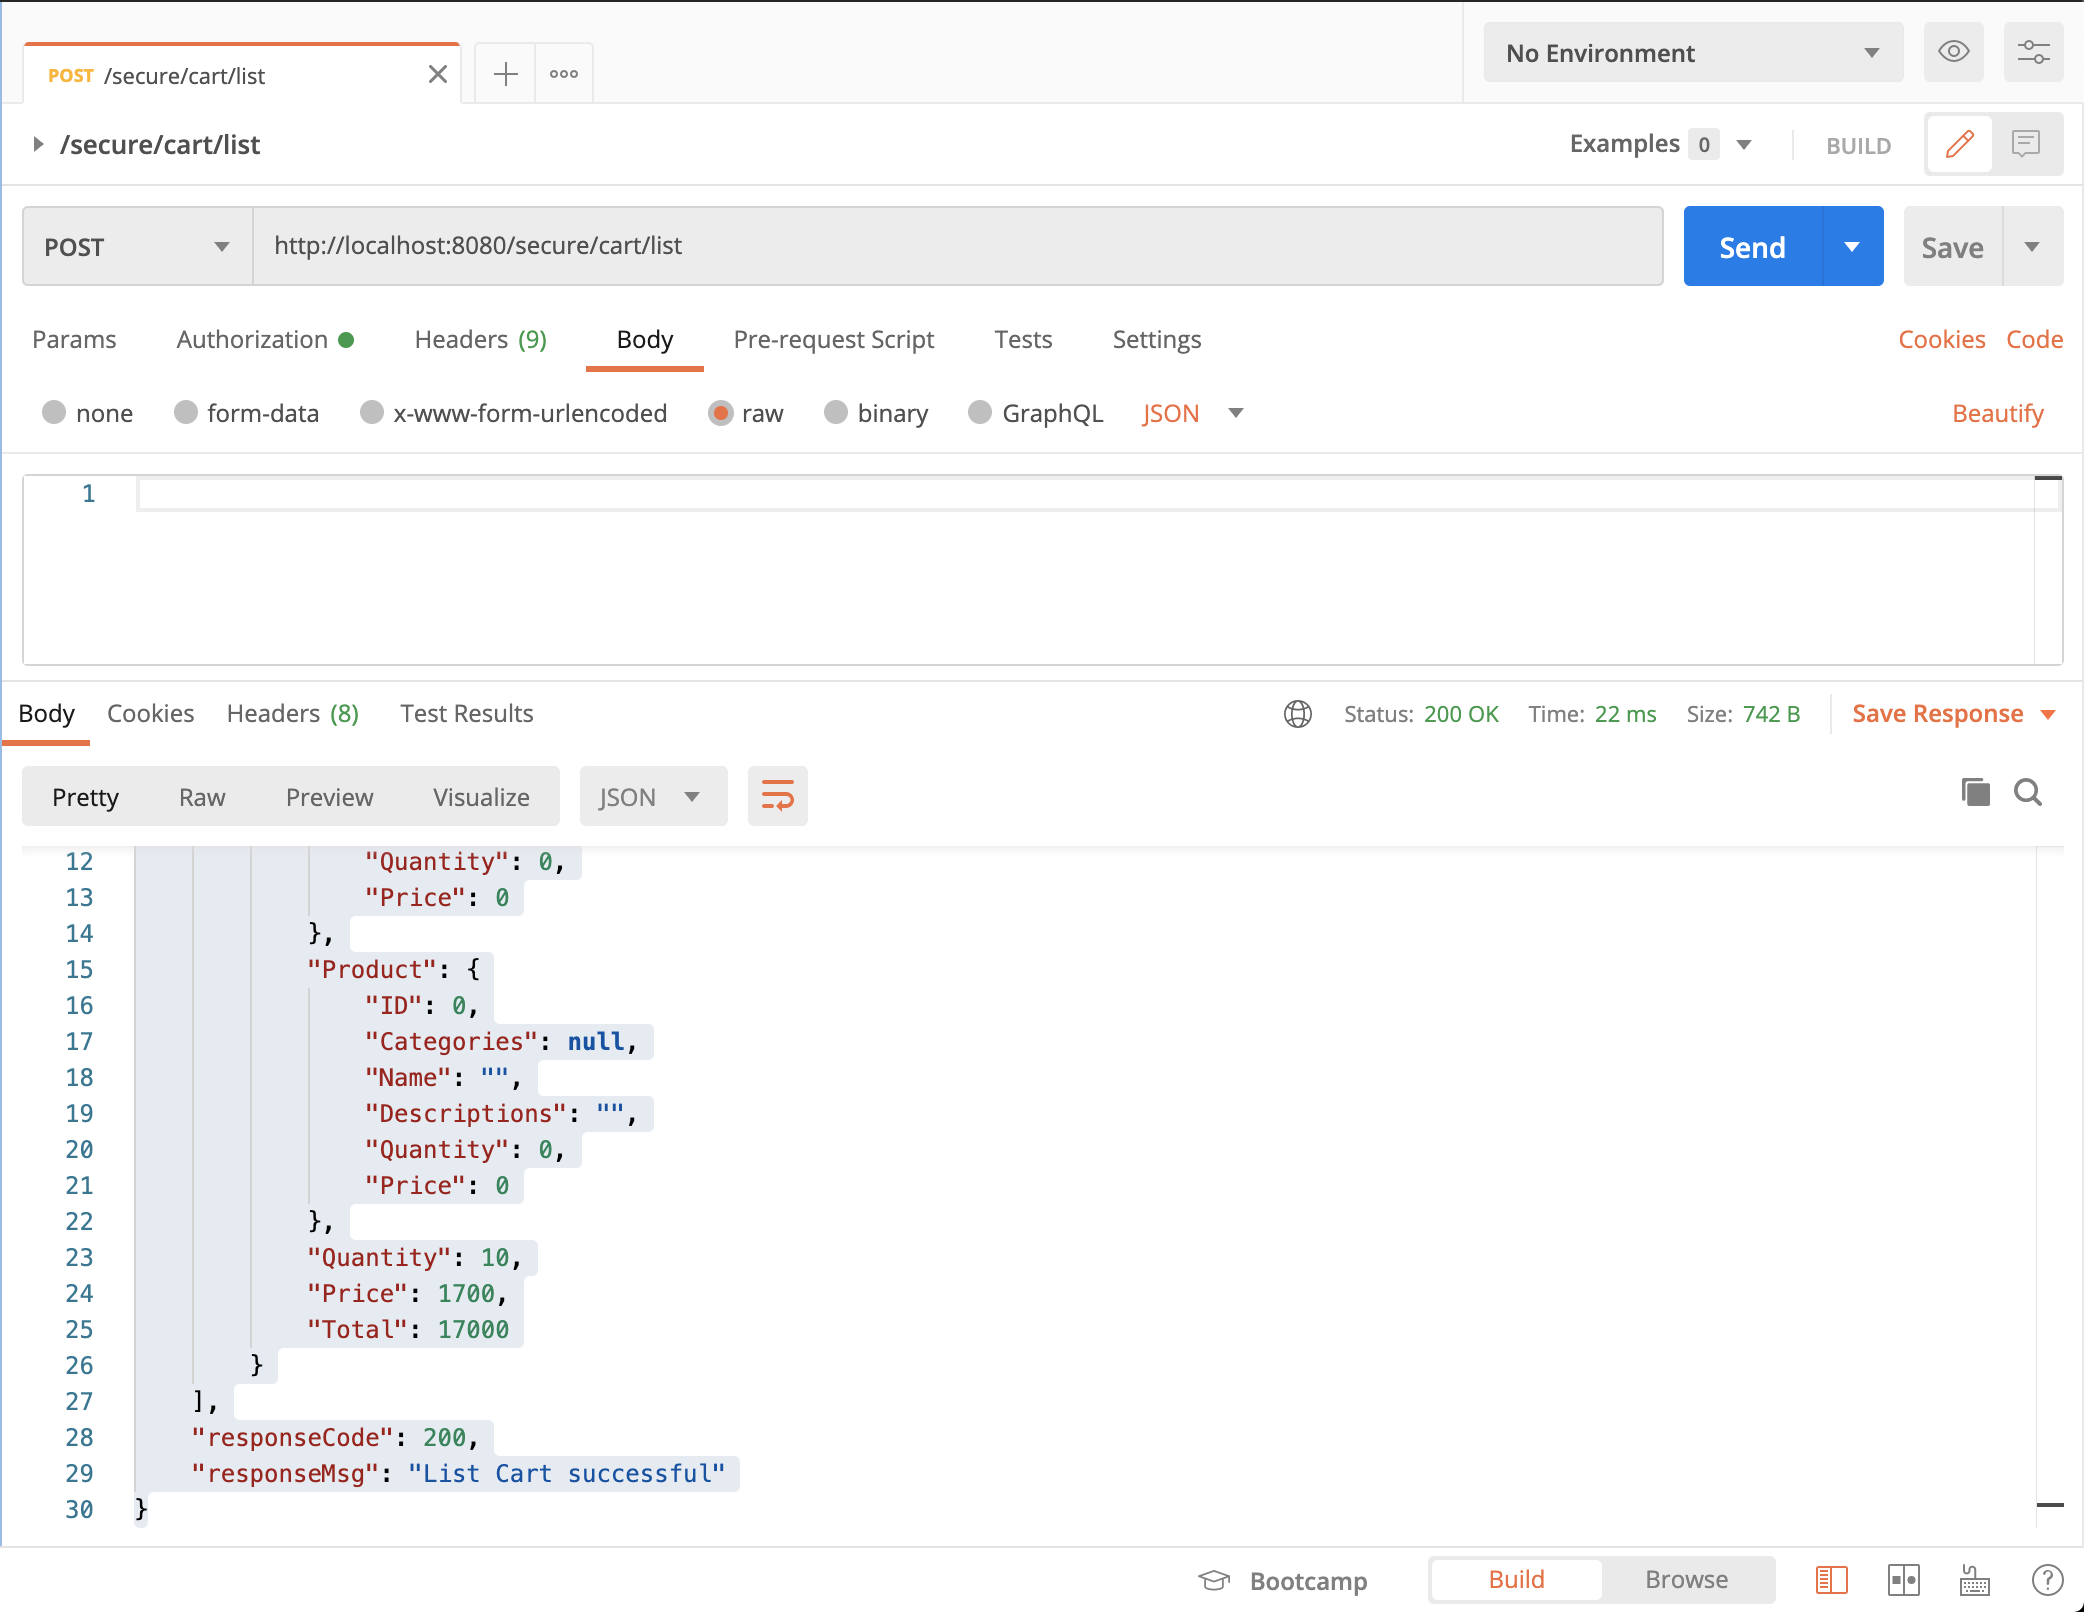
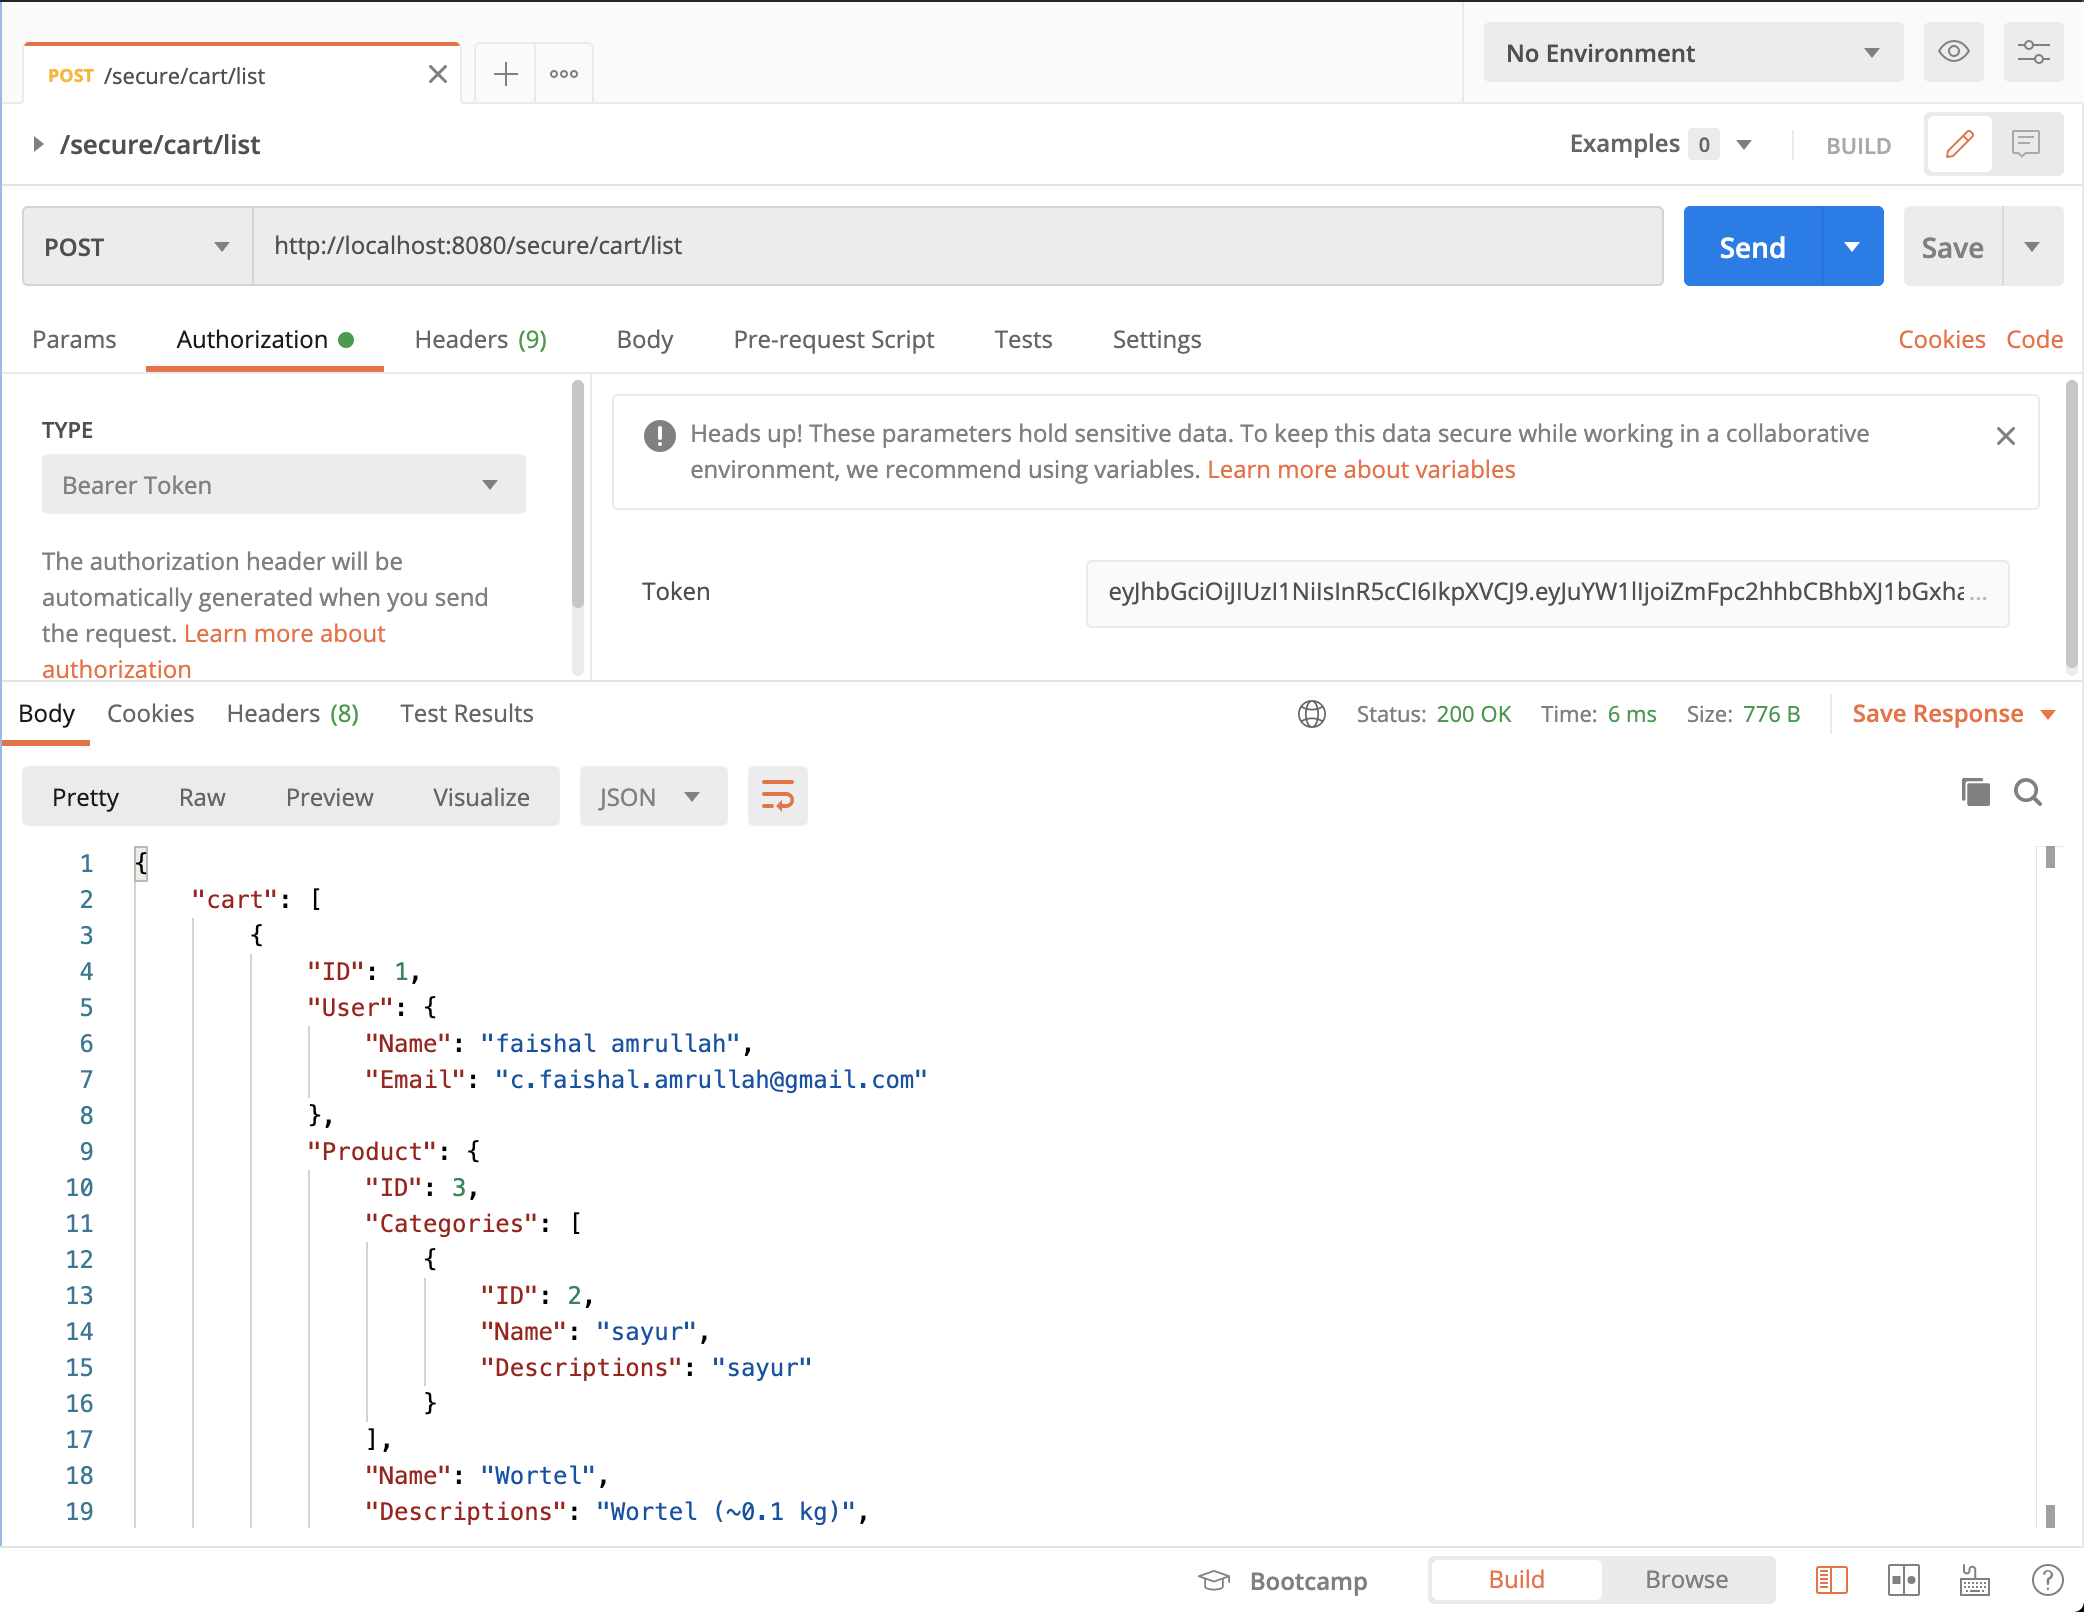
update documentation

diff --git a/README.md b/README.md
@@ -338,24 +338,24 @@ If running normally, you can access <a href="http://localhost:8080">http://local
     {
         "cart": [
             {
-                "ID": 3,
-                "UserID": 3,
-                "ProductID": 3,
+                "ID": 1,
                 "User": {
-                    "ID": 0,
-                    "Categories": null,
-                    "Name": "",
-                    "Descriptions": "",
-                    "Quantity": 0,
-                    "Price": 0
+                    "Name": "faishal amrullah",
+                    "Email": "c.faishal.amrullah@gmail.com"
                 },
                 "Product": {
-                    "ID": 0,
-                    "Categories": null,
-                    "Name": "",
-                    "Descriptions": "",
-                    "Quantity": 0,
-                    "Price": 0
+                    "ID": 3,
+                    "Categories": [
+                        {
+                            "ID": 2,
+                            "Name": "sayur",
+                            "Descriptions": "sayur"
+                        }
+                    ],
+                    "Name": "Wortel",
+                    "Descriptions": "Wortel (~0.1 kg)",
+                    "Quantity": 90,
+                    "Price": 1700
                 },
                 "Quantity": 10,
                 "Price": 1700,
